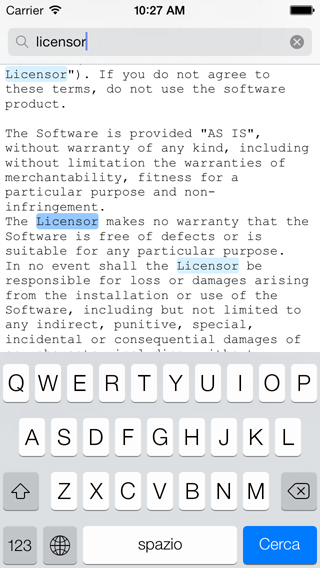
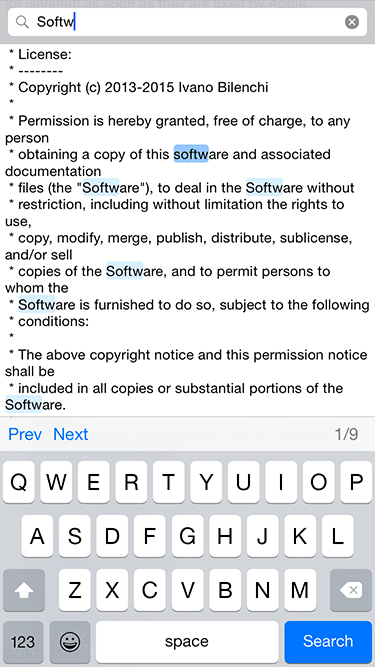
Updated README and screenshot

diff --git a/README.md b/README.md
@@ -1,6 +1,6 @@
 ## ICTextView
 
-![Screenshot](https://github.com/Exile90/ICTextView/raw/master/screenshot.png)
+![Screenshot](screenshot.png)
 
 
 #### Authors
@@ -10,87 +10,79 @@
 
 #### Description
 
-ICTextView is a UITextView subclass with optimized support for string/regex search and highlighting.
+`ICTextView` is a `UITextView` subclass with optimized support for string/regex search and highlighting.
 
-It also features some iOS 7 specific improvements and bugfixes to the standard UITextView.
+It also features some iOS 7+ specific improvements and bugfixes to the standard `UITextView`.
 
 
 #### Features
 
-- Support for string and regex search and highlighting
-- Highly customizable
-- Doesn't use delegate methods (you can still implement your own)
-- Methods to account for contentInsets in iOS 7
-- Contains workarounds for some known iOS 7 UITextView bugs
+- Support for string and regex search and highlighting.
+- Highly customizable.
+- Doesn't use delegate methods (you can still implement your own).
+- Methods to account for `contentInset` and `textContainerInset` in iOS 7+.
+- Contains workarounds for many known iOS 7+ `UITextView` bugs.
 
 
 #### Compatibility
 
-**Supported iOS versions:** 4.x and above (match highlighting starting from iOS 5.x)
+**Supported iOS versions:** 4.x and above (match highlighting starting from iOS 5.x).
 
-**Supported iOS SDKs:** 5.x and above
+**Supported iOS SDKs:** 5.x and above.
 
 **!!!WARNING!!!** - contains ARC enabled code. Beware, MRR purists.
 
 
 #### Installation
 
-ICTextView can be installed via [Cocoapods](http://cocoapods.org) (just add `pod 'ICTextView'` to your Podfile, then run `pod install`) or
-as a [Git submodule](http://git-scm.com/book/en/Git-Tools-Submodules). Alternatively, you can clone this repo, 
-or even just grab the *ICTextView.h* and *ICTextView.m* files and put them in your project.
+`ICTextView` can be installed via [Cocoapods](http://cocoapods.org) (just add `pod 'ICTextView'` to your Podfile, then run `pod install`) or as a [Git submodule](http://git-scm.com/book/en/Git-Tools-Submodules).
 
-ICTextView requires the *QuartzCore* framework.
+Alternatively, you can clone this repo, or even just grab the [ICTextView](ICTextView) folder and put it somewhere in your project.
+
+`ICTextView` requires the `QuartzCore` framework, so make sure to link against it in your build settings.
 
 `#import "ICTextView.h"` and you're ready to go.
 
 
 #### Configuration
 
-See comments in the `#pragma mark - Configuration` section of the *ICTextView.h* header file.
+See comments in the `#pragma mark - Configuration` section of the [ICTextView.h](ICTextView/ICTextView.h) header file.
 
 
 #### Usage
 
 ###### Search
 
-Searches can be performed via the `scrollToMatch:` and `scrollToString:` methods.
-`scrollToMatch:` performs regex searches, while `scrollToString:` searches for string literals.
+Searches can be performed via the `scrollToMatch:` and `scrollToString:` methods. `scrollToMatch:` performs regex searches, while `scrollToString:` searches for string literals.
 
-Both search methods are regex-powered, and therefore make use of `NSRegularExpressionOptions`.
-They both support animation, range restriction and custom end scroll positioning.
-See the `#pragma mark - Constants` section for further info about the `atScrollPosition:` parameter.
+Both search methods are regex-powered, and therefore make use of `NSRegularExpressionOptions`. They both support animation, range restriction, custom end scroll positioning and forward/backward search direction.
 
-If a match is found, ICTextView highlights a primary match, and starts highlighting other matches while the user scrolls.
-Searching for the same pattern multiple times will automatically match the next result, you don't need to update the range argument.
-In fact, you should only specify it if you wish to restrict the search to a specific text range.
-Search is optimized when the specified range and search pattern do not change (aka repeated searches).
+If a match is found, `ICTextView` highlights a primary match, and starts highlighting other matches while the user scrolls. Searching for the same pattern multiple times automatically matches the next result.
 
-The `rangeOfFoundString` property contains the range of the current search match.
-You can get the actual string by calling the `foundString` method.
+The `rangeOfFoundString` property contains the range of the current search match. You can get the actual string by calling the `foundString` method.
 
-The `resetSearch` method lets you restore the search variables to their starting values, effectively resetting the search.
-Calls to `resetSearch` cause the highlights to be deallocated, regardless of the `maxHighlightedMatches` variable.
-After this method has been called, ICTextView stops highlighting results until a new search is performed.
+The `resetSearch` method lets you restore the search variables to their starting values, effectively resetting the search. Calls to `resetSearch` cause the highlights to be deallocated, regardless of the `maxHighlightedMatches` variable.
+
+After this method has been called, `ICTextView` stops highlighting results until a new search is performed.
 
 ###### Content insets methods
 
-The `scrollRangeToVisible:consideringInsets:[...]` and `scrollRectToVisible:animated:consideringInsets:[...]` methods
-let you scroll until a certain range or rect is visible, eventually accounting for content insets.
-This was the default behavior for `scrollRangeToVisible:` before iOS 7, but it has changed since (possibly because of a bug).
-These methods support animation and scroll positioning, similarly to the search methods.
+The `scrollRangeToVisible:consideringInsets:[...]` and `scrollRectToVisible:animated:consideringInsets:[...]` methods let you scroll until a certain range or rect is visible, eventually accounting for content insets.
 
-The other methods are pretty much self-explanatory. See the `#pragma mark - Misc` section for further info.
+This was the default behavior for `scrollRangeToVisible:` before iOS 7, but it has changed since (possibly because of a bug). These methods support animation and scroll positioning, similarly to the search methods.
+
+The other methods are pretty much self-explanatory. See the `#pragma mark - Misc` section of the [ICTextView.h](ICTextView/ICTextView.h) header file for further info.
 
 
-#### iOS 7 Bugfixes
+#### iOS 7 UITextView Bugfixes
 
 Long story short, iOS 7 completely broke `UITextView`. `ICTextView` contains fixes for some very common issues:
 
-- **NSTextContainer bug:** `UITextView` initialized via `initWithFrame:` had an erratic behavior due to an uninitialized or wrong `NSTextContainer`
-- **Caret bug:** the caret didn't consider `contentInset` and often went out of the visible area
-- **characterRangeAtPoint: bug:** `characterRangeAtPoint:` always returned `nil`
+- **NSTextContainer bug:** `UITextView` initialized via `initWithFrame:` had an erratic behavior due to an uninitialized or wrong `NSTextContainer`.
+- **Caret bug:** the caret didn't consider `contentInset` nor `textContainerInset` and often went out of the visible area.
+- **characterRangeAtPoint: bug:** `characterRangeAtPoint:` always returned `nil`.
 
-These fixes, combined with the custom methods to account for `contentInset`, should make working with `ICTextView` much more bearable
+These fixes, combined with the custom methods to account for `contentInset` and `textContainerInset`, should make working with `ICTextView` much more bearable
 than working with the standard `UITextView`.
 
 Bugfixes introduced by `ICTextView` will be removed (or isolated) as soon as they are fixed by Apple.
@@ -98,4 +90,4 @@ Bugfixes introduced by `ICTextView` will be removed (or isolated) as soon as the
 
 #### License
 
-ICTextView is available under the MIT license. See the LICENSE file for more info.
+`ICTextView` is available under the MIT license. See the [LICENSE](LICENSE) file for more info.
